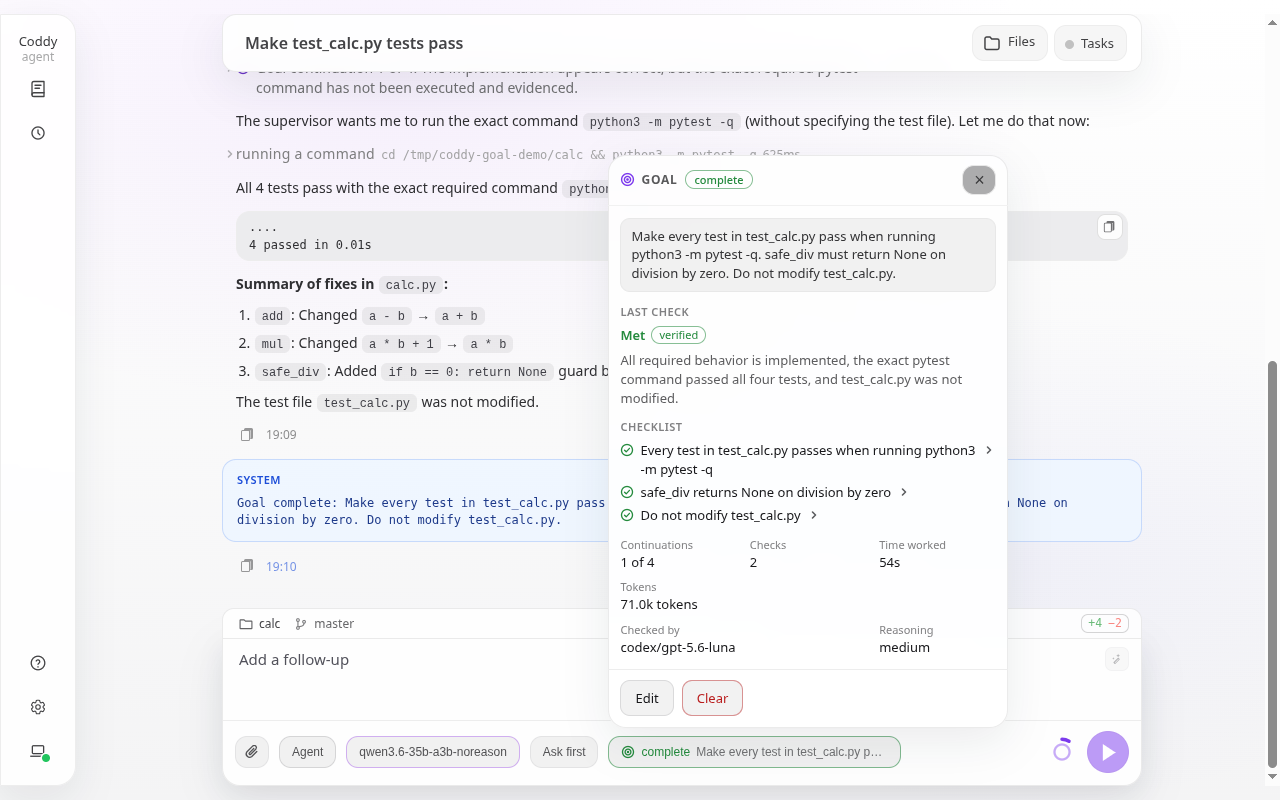
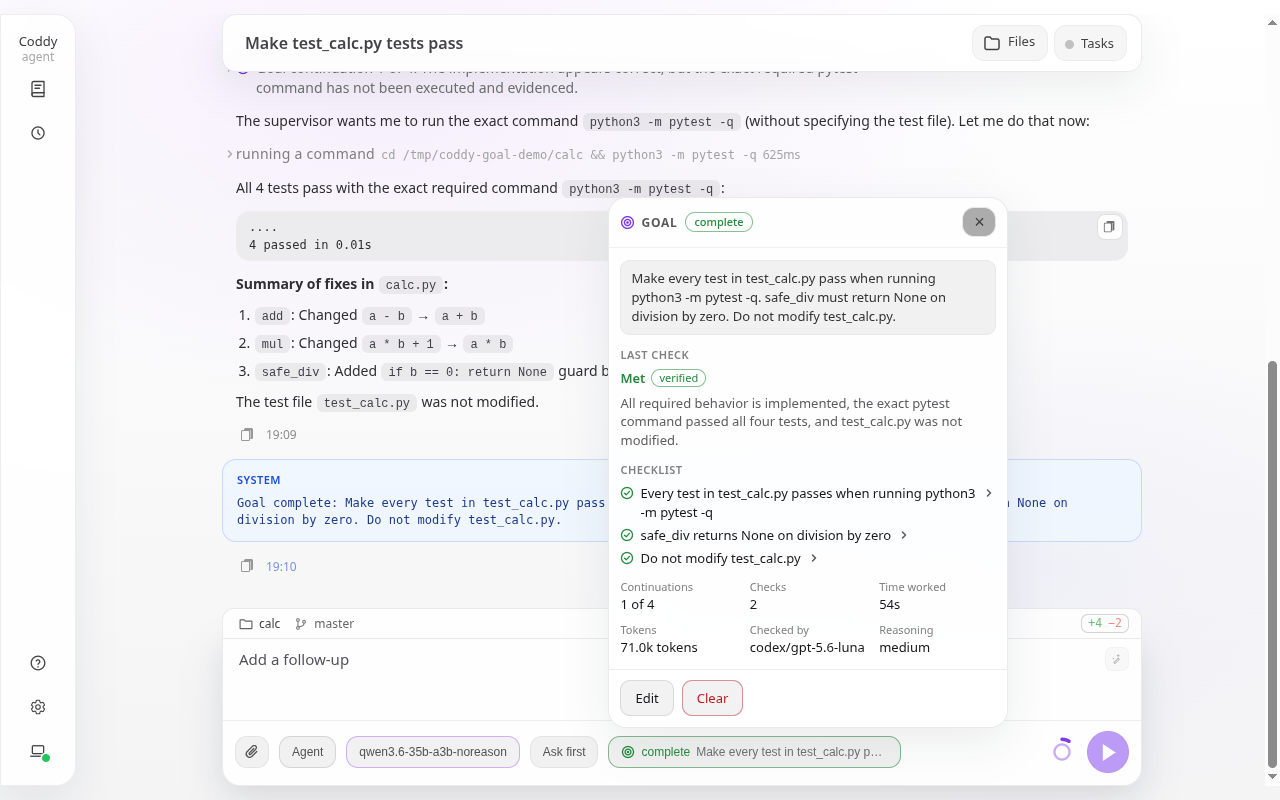
fix(web): three goal numbers to a row, two on a phone
Checked by and Reasoning are plain cells of the goal numbers' grid now:
six cells, three to a row on a desktop and a tablet and two under the
phone tier (max-width: 599px), so the rows come out full and every label
stands on the column lines. A model id wraps inside its cell after the
provider's slash first.

Changed region(s): [[0.4688, 0.1875, 0.75, 0.8125], [0.75, 0.1875, 0.7812, 0.3125], [0.6875, 0.7188, 0.7188, 0.75]]

diff --git a/external/ui/src/ui/chat/goalCheckerCss.test.ts b/external/ui/src/ui/chat/goalCheckerCss.test.ts
@@ -3,33 +3,45 @@ import { join } from "node:path";
 import { expect, test } from "vitest";
 
 /**
- * The checker of a goal is the widest value of the goal menu: in one number's
- * column a model id broke into several lines. It closes the numbers' grid on
- * a row of its own that starts at the first column and spans two, so its
- * reasoning level falls into the third column, under the time worked, and
- * every label of the menu stands on the same column lines (DESIGN.md, Session
- * goal in the composer).
+ * The goal menu's numbers - continuations, checks, time worked, tokens, the
+ * checker and its reasoning level - are cells of one grid: three to a row on
+ * a desktop and a tablet, two on a phone, every cell one column wide, so the
+ * rows come out full and every label stands on the grid's column lines
+ * (DESIGN.md, Session goal in the composer).
  */
 
 const css = readFileSync(join(__dirname, "..", "..", "styles.css"), "utf8");
 
-test("the checker starts a row of the numbers' grid and spans two columns", () => {
-  const rule = css.match(/\.goal-numbers-checker\s*\{([^}]*)\}/);
-  expect(rule, ".goal-numbers-checker is missing").not.toBeNull();
-  expect((rule?.[1] ?? "").replace(/\s+/g, " ")).toContain(
-    "grid-column: 1 / span 2",
-  );
-});
+function squash(body: string): string {
+  return body
+    .replace(/\s+/g, " ")
+    .replace(/\(\s+/g, "(")
+    .replace(/\s+\)/g, ")");
+}
 
-test("the numbers keep three columns at every width", () => {
-  // auto-fit dropped to two columns on a phone, and the level fell under the
-  // model instead of beside it.
-  const rule = css.match(/\.goal-numbers\s*\{([^}]*)\}/);
-  expect((rule?.[1] ?? "").replace(/\s+/g, " ")).toContain(
+test("three numbers to a row above the phone tier", () => {
+  const rule = css.match(/(?:^|\n)\.goal-numbers\s*\{([^}]*)\}/);
+  expect(squash(rule?.[1] ?? "")).toContain(
     "grid-template-columns: repeat(3, minmax(0, 1fr))",
   );
 });
 
-test("no grid of its own pushes the level to the edge", () => {
+test("two numbers to a row on a phone", () => {
+  const phone = [
+    ...css.matchAll(/@media \(max-width: 599px\) \{([\s\S]*?)\n\}/g),
+  ].map((m) => squash(m[1] ?? ""));
+  expect(
+    phone.some((block) =>
+      /\.goal-numbers \{ grid-template-columns: repeat\(2, minmax\(0, 1fr\)\); \}/.test(
+        block,
+      ),
+    ),
+  ).toBe(true);
+});
+
+test("no cell spans columns, and a long model id wraps in its own", () => {
+  expect(css).not.toMatch(/\.goal-numbers-checker\b/);
   expect(css).not.toMatch(/\.goal-checker-numbers\b/);
+  const dd = css.match(/\.goal-numbers dd\s*\{([^}]*)\}/);
+  expect(squash(dd?.[1] ?? "")).toContain("overflow-wrap: anywhere");
 });

diff --git a/external/ui/src/ui/chat/GoalPopover.tsx b/external/ui/src/ui/chat/GoalPopover.tsx
@@ -99,6 +99,23 @@ function checkerLevel(
   return level === "default" ? t("goal.reasoningDefault") : level;
 }
 
+/**
+ * A model id that may break after its provider: in a number's column
+ * "codex/gpt-5.6-luna" wraps as "codex/" over "gpt-5.6-luna" rather than in
+ * the middle of a word.
+ */
+function ModelId(props: { id: string }) {
+  const slash = props.id.indexOf("/");
+  if (slash < 0) return <>{props.id}</>;
+  return (
+    <>
+      {props.id.slice(0, slash + 1)}
+      <wbr />
+      {props.id.slice(slash + 1)}
+    </>
+  );
+}
+
 function checklistStatusKey(status: string): string {
   if (status === "met") return "goal.item.met";
   if (status === "not_met") return "goal.item.notMet";
@@ -574,12 +591,11 @@ export function GoalPopover(props: {
           </div>
         ) : null}
         {checker ? (
-          // A model id does not fit one number's column: it starts a row of
-          // the grid and spans two, so its level falls into the third, on
-          // the same column lines as the numbers above.
-          <div className="goal-numbers-checker">
+          <div>
             <dt>{t("goal.checkedBy")}</dt>
-            <dd data-testid="goal-checker">{checker}</dd>
+            <dd data-testid="goal-checker">
+              <ModelId id={checker} />
+            </dd>
           </div>
         ) : null}
         {checker && level ? (

diff --git a/external/ui/src/styles.css b/external/ui/src/styles.css
@@ -7748,10 +7748,11 @@ html:not([data-theme="light"]) .context-breakdown-error {
   color: color-mix(in srgb, var(--text) 62%, var(--coddy-blend-base));
 }
 
+/* The numbers of a goal, the checker and its level included: three cells
+   to a row, every cell one column wide, so the rows come out full and the
+   labels stand on the same column lines. */
 .goal-numbers {
   display: grid;
-  /* Three columns at every width, so the checker's two and its level's one
-     stay on one row on a phone too. */
   grid-template-columns: repeat(3, minmax(0, 1fr));
   gap: 8px 12px;
   margin: 0;
@@ -7765,17 +7766,15 @@ html:not([data-theme="light"]) .context-breakdown-error {
 .goal-numbers dd {
   margin: 0;
   font-variant-numeric: tabular-nums;
-}
-
-/* The checker closes the numbers: a row of its own from the first column,
-   two columns wide, so its reasoning level falls into the third and every
-   label stands on the grid's column lines. */
-.goal-numbers-checker {
-  grid-column: 1 / span 2;
-}
-
-.goal-numbers-checker dd {
+  /* A model id wraps inside its cell, after the provider first. */
   overflow-wrap: anywhere;
+}
+
+/* A phone has room for two numbers to a row. */
+@media (max-width: 599px) {
+  .goal-numbers {
+    grid-template-columns: repeat(2, minmax(0, 1fr));
+  }
 }
 
 .goal-popover-actions {

diff --git a/external/ui/src/ui/chat/ComposerGoal.test.tsx b/external/ui/src/ui/chat/ComposerGoal.test.tsx
@@ -357,14 +357,17 @@ test("the card names the checker and, beside it, the level the check runs at", (
     } else {
       expect(reasoning).toHaveTextContent(new RegExp(`^${level}$`));
     }
-    // Both close the numbers' own grid, so their columns line up with the
-    // numbers above: the model across two columns, the level in the next.
+    // Both are plain cells of the numbers' grid, the level right after the
+    // model, last.
     const checkerCell =
       within(popover()).getByTestId("goal-checker").parentElement!;
-    expect(checkerCell).toHaveClass("goal-numbers-checker");
+    expect(checkerCell.className).toBe("");
     expect(checkerCell.parentElement).toHaveClass("goal-numbers");
     if (level !== null) {
       expect(checkerCell.nextElementSibling).toBe(reasoning!.parentElement);
+      expect(checkerCell.parentElement!.lastElementChild).toBe(
+        reasoning!.parentElement,
+      );
     }
     cleanup();
   }

diff --git a/DESIGN.md b/DESIGN.md
@@ -788,7 +788,7 @@ A session can carry a goal (`/goal <objective>`, **`docs/features/session-superv
 - **Chip** (**`.composer-goal`**, **`data-testid="composer-goal"`**, a **`composer-tab`** in **`.composer-tabs`** after the permission chip and before the turn overrides): shown only while the session has a goal. The target glyph and the status word in the status's tone, then the objective cut to one line (**`max-width: 16em`**, ellipsis), the whole objective and the status in the **`title`**, **`Goal: <status>`** as its name. The chip is the one item of the strip that shrinks (**`flex: 0 1 auto; min-width: 0`**), so a long objective never pushes a selector off the bar. On a phone (**`max-width: 599px`**) the objective is hidden and the chip is the target and the word, at its natural width, and it leads the scrolling strip (**`order: -1`**): at its end it stood under the fade, out of sight until the strip was scrolled.
 - **Tones** come from the theme's own tokens through **`--goal-tone`** (**`.goal-tone-*`**), never a colour of their own: **active** the accent (**`--accent`**), **paused** and **limited** the muted text (**`--muted`**), **blocked** the danger tone (**`--coddy-danger`**: there is no per-theme warning token, and blocked is the state that needs the operator), **complete** the done green of the todo list (**`--coddy-todo-completed`**). The chip's border is the tone at **55%**; its icon and status word are the tone. Status words: active, paused, needs you, complete, out of budget (в работе, на паузе, ждёт вас, выполнена, бюджет исчерпан).
 - **Popover** (**`GoalPopover`**, **`role="dialog"`**, **`data-testid="goal-popover"`**), opened by the chip and by a bare **`/goal`**: the context popover's shell (**`slash-menu-surface`** glass, **`sessions-head`** head with the **×**). On a desktop it is a portal anchored to the chip (to the composer card when there is no chip), **400px** wide at most and pulled inside the window, above the anchor when there is room and below otherwise, never taller than that room. On the stacked shell it is a bottom sheet over the scrim (**`.goal-popover--sheet`**, **`max-width: min(560px, 100vw)`**, at most **80vh**, on **`--coddy-keyboard-inset`** so the on-screen keyboard does not cover it; a Mini App lifts it with the other sheets). The head and the actions stay put and the body scrolls between them, which keeps the actions in reach at **320px** and in a **568x320** landscape phone. **Escape** leaves an edit first, then closes; a press outside closes on a desktop, the scrim on the sheet; while the Clear confirmation asks, both are the dialog's. Opening focuses the set form's field where a keyboard is at hand (**`composerAutoFocusAllowed`**), the panel otherwise; closing gives the focus back to the chip.
-- **Contents**: the objective whole, in its own box that scrolls past nine lines; the status as a badge in its tone and the reason the supervisor gave (paused, blocked, limited); the **last check** - its verdict, a **verified** badge when the verifier confirmed a met verdict in the workspace, its reason and the items it left open; the **checklist**, one row per requirement with a drawn status mark (a ticked circle in the done green, an open circle, a dashed circle for unverified) and its evidence folding out under the row on a tap (a disclosure with the app's chevron, never a hover); the **numbers** - continuations *N of M*, checks, the time worked (**`formatElapsedSeconds`**, the turn clock's format) and the tokens, against the budget when one is set (**`formatTurnTokens`**) - and closing the same grid, **Checked by** on a row of its own from the first column and two columns wide (**`.goal-numbers-checker`**, **`grid-column: 1 / span 2`**: a model id does not fit one number's column) with **Reasoning** in the next cell, the third column, under the time worked, so every label of the numbers stands on the same column lines. The grid keeps three columns at every width (**`repeat(3, minmax(0, 1fr))`**), so on a phone the level stays beside the model. **Checked by** (**`goal-checker`**) is the model the next check runs on, the server's **`checkModel`**; **Reasoning** (**`goal-reasoning`**) is the level alone, the one **`/goal -r`** chose, else the model's default level as it is, **default** when the model configures none, and absent for a model without levels (**`checkerLevel`**).
+- **Contents**: the objective whole, in its own box that scrolls past nine lines; the status as a badge in its tone and the reason the supervisor gave (paused, blocked, limited); the **last check** - its verdict, a **verified** badge when the verifier confirmed a met verdict in the workspace, its reason and the items it left open; the **checklist**, one row per requirement with a drawn status mark (a ticked circle in the done green, an open circle, a dashed circle for unverified) and its evidence folding out under the row on a tap (a disclosure with the app's chevron, never a hover); the **numbers** - continuations *N of M*, checks, the time worked (**`formatElapsedSeconds`**, the turn clock's format) and the tokens, against the budget when one is set (**`formatTurnTokens`**) - and closing the same grid, **Checked by** and **Reasoning**: six cells, each one column wide, three to a row on a desktop and a tablet (**`repeat(3, minmax(0, 1fr))`**) and two on a phone (**`repeat(2, minmax(0, 1fr))`** under **`max-width: 599px`**), so the rows come out full and every label stands on the grid's column lines; a model id wraps inside its cell, after the provider first (**`ModelId`** puts a **`<wbr>`** after the slash). **Checked by** (**`goal-checker`**) is the model the next check runs on, the server's **`checkModel`**; **Reasoning** (**`goal-reasoning`**) is the level alone, the one **`/goal -r`** chose, else the model's default level as it is, **default** when the model configures none, and absent for a model without levels (**`checkerLevel`**).
 - **Actions** (**`.goal-popover-actions`**, buttons at least **36px** tall): **Pause** while active (**`PATCH .../goal {"status":"paused"}`**); **Resume** while paused, blocked or limited, which sends **`/goal resume`** as a prompt of the chat, since resuming starts a turn; **Edit**, an inline field filled with the objective whose **Save and start** sends **`/goal <objective>`** (it replaces the goal and starts working on it at once) and **Cancel** goes back; **Clear**, in the danger tone, asks through **`useConfirm`** and then **`DELETE .../goal`**. Without a goal the popover is the set form: a line on what a goal does, the field and **Set goal**. The field counts the objective in runes against the server's **4000** and refuses more. A prompt waits while a turn runs - Resume and the form's button are disabled and a note says why - and goes the way a typed message goes (**`sendGoalPrompt`** in **`App.tsx`**, like the plan card's Run plan), without touching the draft or an edit in progress. A refused Pause or Clear says so in the popover.
 - **`/goal` in the composer**: a bare **`/goal`** (Send, Enter or the queue key) opens the popover and sends nothing, like **`/docs`** and **`/mcp`** (**`runLocalCommandFromDraft`**); **`/goal`** with anything after it - an objective, **pause**, **resume**, **clear** - is the server's and goes as typed. The **`/`** menu row is the server's (**`GET /coddy/commands`**).
 - **Goal rows** (**`GoalTurnMessage`**, **`data-testid="goal-turn-row"`**): the first message of a turn the supervisor started is the instruction the model reads, and nobody typed it, so it is never a user bubble. A compact row stands in its place, on the thinking row's frame: the target and one line mirroring the server's note - *Goal set: <objective>*, *Goal resumed: <objective>*, *Goal continuation N of M: <reason>*, *Goal recovery N of M: <reason>*, *Goal budget used up, wrapping up: <reason>* - cut at two lines. When the check left items open the row says how many and folds them out (the chevron at its start, like a thinking row); a line the two lines cut at the row's width (measured, so a phone folds what a desktop shows whole) folds out whole. Live the row comes from the **`goal_turn`** frame (**`applyGoalTurnToItems`**: it takes the place of the **`/goal`** prompt this tab sent for a kickoff or a resume, since the server stores no such message, and a frame for the row already there changes nothing); after a reload from the message's **`goal_turn`** field (**`chat/transcriptFromMessages.ts`**), the instruction text never shown.

diff --git a/docs/assets/INDEX.md b/docs/assets/INDEX.md
@@ -255,9 +255,9 @@ Generated by `make docs`. "Used by" lists the files that reference the asset.
 | File | Size | Used by |
 |------|------|---------|
 | `goal-console-blocked-dark-1280.png` | 295 KB | docs/surfaces/console.md |
-| `goal-menu-complete-dark-1280.png` | 319 KB | docs/features/session-supervisor.md |
+| `goal-menu-complete-dark-1280.png` | 325 KB | docs/features/session-supervisor.md |
 | `goal-menu-complete-dark-390.png` | 93 KB | docs/features/session-supervisor.md |
-| `goal-menu-complete-light-1280.png` | 269 KB | docs/features/session-supervisor.md |
+| `goal-menu-complete-light-1280.png` | 274 KB | docs/features/session-supervisor.md |
 | `goal-settings-dark-1280.png` | 158 KB | docs/features/session-supervisor.md |
 
 ### docs/assets/skills
